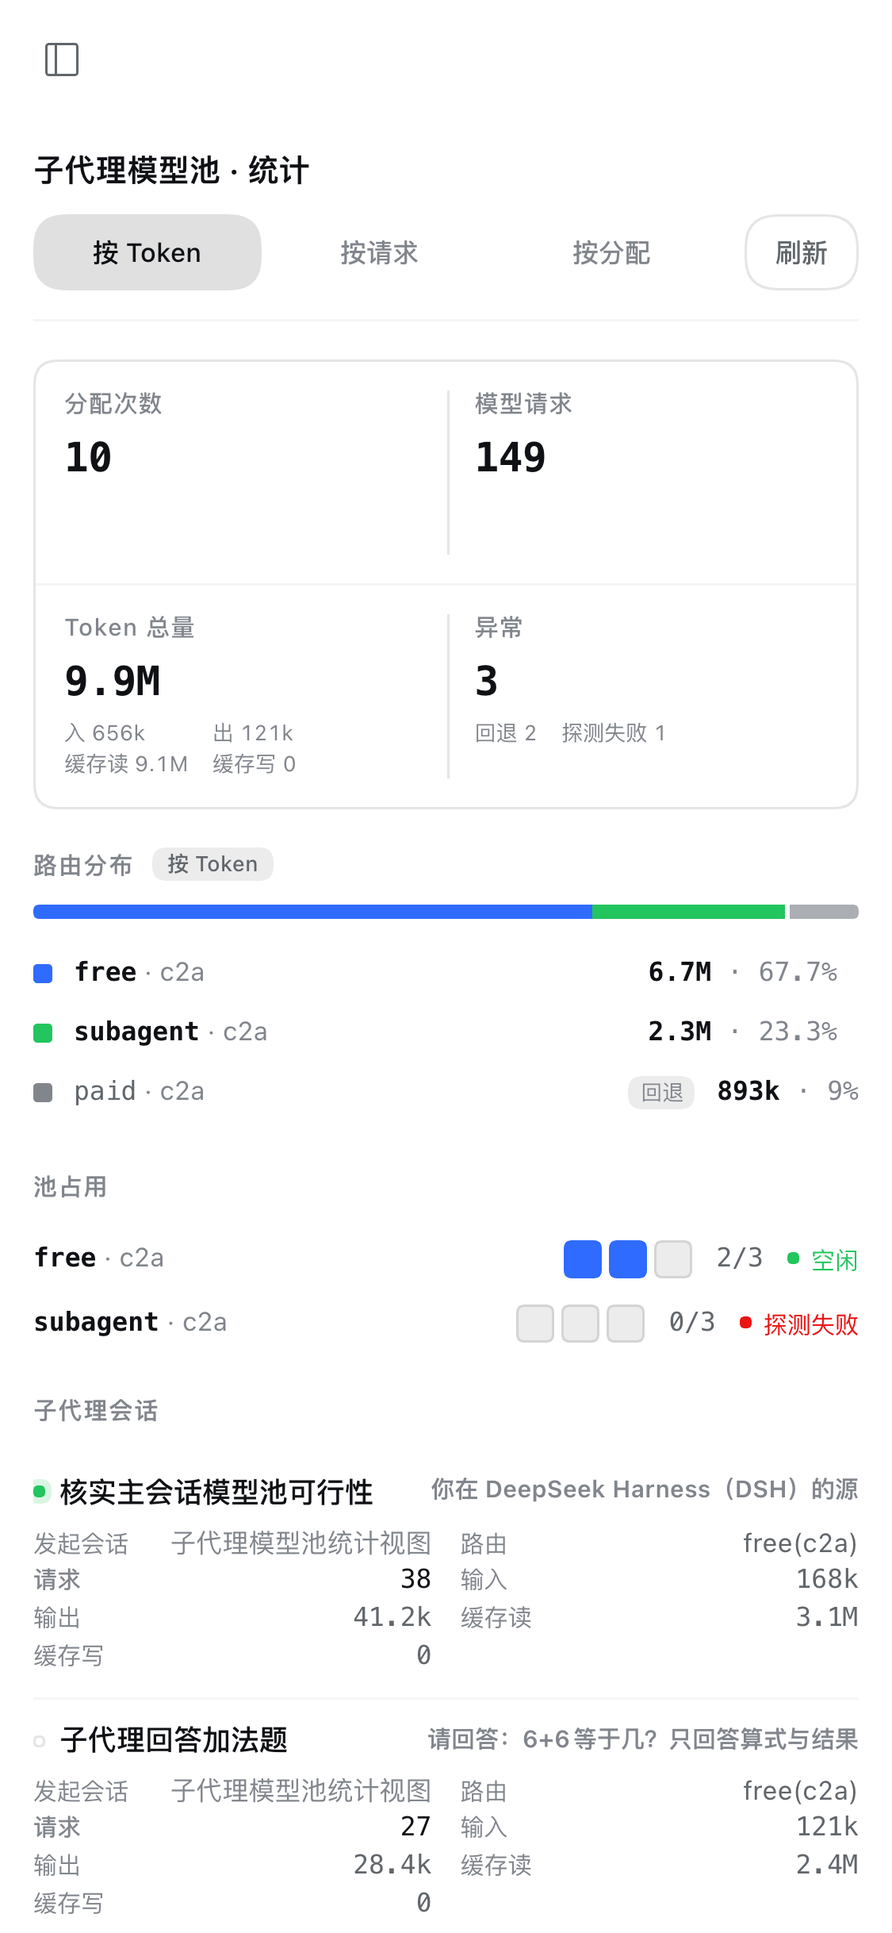
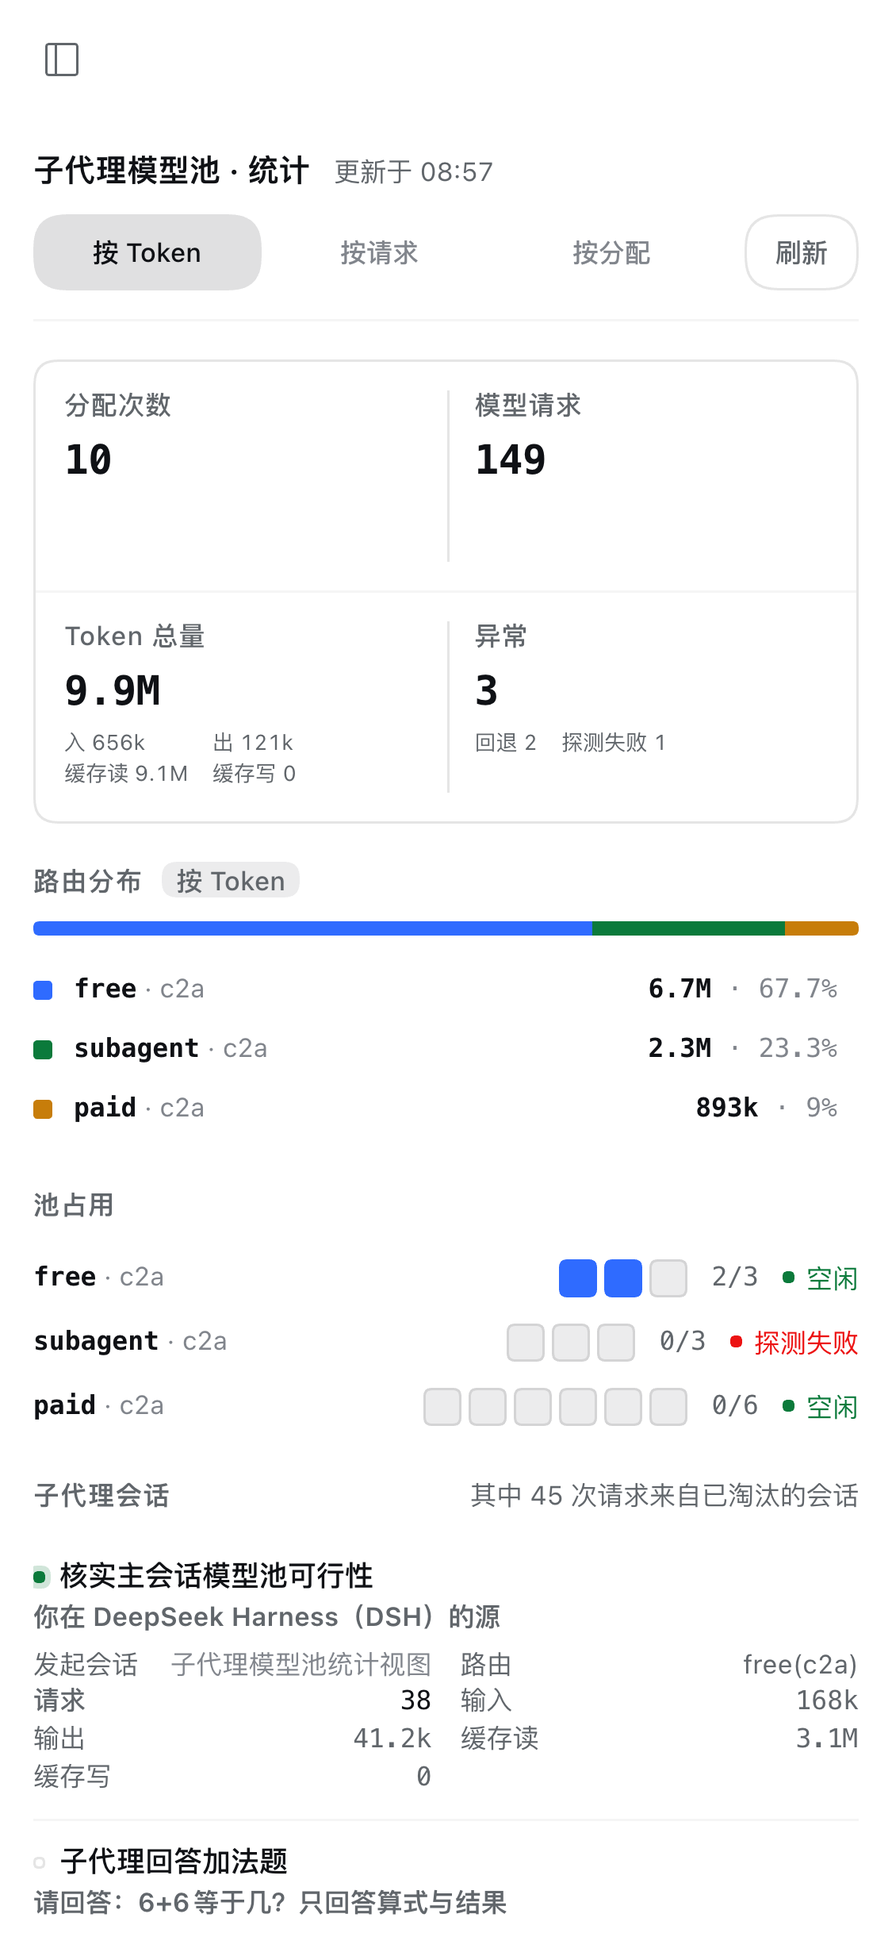
fix: 按审查结论修可访问性与信息完整性，字号下限提到 11px
两个独立评审（设计评审 + 检测器/像素证据）都指到同一批问题，按
「缺陷」处理，不涉及设计取舍。

对比度（A、B 两路独立同结论）
- 三级文字 #81858c 在浅色白底只有 3.71:1（AA 要 4.5），而同一批文字
  在深色 8.54:1 完全达标——label-tertiary 两端亮度差 4.8 倍，我一直
  只验深色。全部换 label-secondary：浅色 #61666b = 5.80:1，深色
  #cfd3d6 = 9.90:1，两端都过。
- 状态绿：DSH 的 --dsw-alias-state-success-primary 在**两套主题里都是**
  #22c55e，浅色白底 2.28:1，连非文本 3:1 都不到（DSH 自己的红绿不对称：
  红浅色用 red-600、深色换 red-400 自动补偿，绿没有）。别名有值，
  所以 fallback 改色无效。改为按主题标记分两套：浅色 #0b7a3b = 5.44:1，
  深色沿用 #22c55e = 8.00:1。实测 --smpv-ok 浅色 #0b7a3b / 深色 #22c55e。

字号下限 11px（检测器 13 条 warning）
- 眉题、卡标签、卡副文、模式胶囊、回退胶囊、状态文案、会话副标题、
  表头、移动端 data-label 全部 9-10px → 11px。实测 8 个选择器 computed
  fontSize 全为 11px。

手机端标题被排成一行（A、B 独立同结论）
- td:first-child 是 display:flex，内部两个块级子元素（标题 + 副标题）
  被排成左右两项，副标题右对齐顶到边界、可用宽度 179px 而自身 179px，
  零余量。改 flex-direction:column。实测 stacked=true，标题 bottom=670、
  副标题 top=671。

信息完整性（A：只给结论不给路径）
- 加「更新于 HH:MM」时间锚点。账本是进程序内存累计，不标时间分不清
  刚拉的还是十分钟前的。
- 加 30 秒自动刷新（面板卸载时清掉，不在后台空转）。
- 加「其中 N 次请求来自已淘汰的会话」：账本上限 200 条，淘汰后明细没了
  但 totals 只增不减，149 vs 104 的差额不说明会被当成表格漏行。
  抽成 unattributedRequests() 纯函数便于测试。

可访问性
- <table> 补 role="table"：移动端 display:block 后 Safari/VoiceOver 和
  Firefox 会丢掉隐式表格角色。

实测：5 个数值列与表头右边缘对齐 maxDiff 全 0；更新于 08:57；
未归属 45 次（149-104）；桌面 812px 填满不滚动；手机可滚动。
测试 137 项全绿（新增 3 项未归属计算）。

diff --git a/client.js b/client.js
@@ -746,7 +746,7 @@
       /** 路由配色：t0 蓝 / t1 绿 / t2 橙 / t3 紫（与 DSH 内置统计表同族）。 */
       var TONE_COLORS = {
         t0: "var(--dsw-alias-accent,#2f6bff)",
-        t1: "var(--dsw-alias-state-success-primary,#1a8a4a)",
+        t1: "var(--smpv-ok)",
         t2: "var(--dsw-alias-state-warning-primary,#c77d0a)",
         t3: "#8a63d2",
         // 回退路由（池无候选，子代理退回父路由）：灰色，与池内区分。
@@ -764,10 +764,16 @@
                 // 三级色阶：用 label-primary 按比例混透明，两个主题自动成立
         // （label-primary 在浅色主题是近黑、深色主题是近白，混出来分别是叠深与叠亮）。
         // interactive-bg-hover 只有 6% 强度，叠在近白的页面底上只差 7/255，等于没画。
-        ".smpv-page{display:flex;flex-direction:column;flex:1 1 auto;min-width:0;min-height:0;overflow-y:auto;overscroll-behavior-y:contain;-webkit-overflow-scrolling:touch;padding:18px 24px 24px;--smpv-tint-1:color-mix(in srgb,var(--dsw-alias-label-primary) 4%,transparent);--smpv-tint-2:color-mix(in srgb,var(--dsw-alias-label-primary) 8%,transparent);--smpv-tint-3:color-mix(in srgb,var(--dsw-alias-label-primary) 13%,transparent)}",
+        ".smpv-page{display:flex;flex-direction:column;flex:1 1 auto;min-width:0;min-height:0;overflow-y:auto;overscroll-behavior-y:contain;-webkit-overflow-scrolling:touch;padding:18px 24px 24px;--smpv-tint-1:color-mix(in srgb,var(--dsw-alias-label-primary) 4%,transparent);--smpv-tint-2:color-mix(in srgb,var(--dsw-alias-label-primary) 8%,transparent);--smpv-tint-3:color-mix(in srgb,var(--dsw-alias-label-primary) 13%,transparent);--smpv-ok:#0b7a3b}",
+        // 成功色：DSH 的 --dsw-alias-state-success-primary 在**两套主题里都是**
+        // #22c55e，浅色白底只有 2.28:1——AA 要求 4.5，连非文本 3 都不到。
+        // 改用主题标记分两套：浅色压深到 5.44:1，深色沿用 DSH 原值（8.00:1）。
+        "body[data-ds-dark-theme] .smpv-page{--smpv-ok:#22c55e}",
         // 标题区：标题压在左、控件压在右，底部一条极淡分隔线收口。
         ".smpv-head{display:flex;align-items:center;justify-content:space-between;gap:16px;padding-bottom:14px;border-bottom:.5px solid var(--dsw-alias-border-l1)}",
         ".smpv-title{margin:0;font-size:13px;line-height:18px;font-weight:600;letter-spacing:.01em;color:var(--dsw-alias-label-primary)}",
+        ".smpv-headLine{display:flex;align-items:baseline;gap:10px;min-width:0}",
+        ".smpv-updated{font-size:11px;line-height:15px;color:var(--dsw-alias-label-secondary);font-variant-numeric:tabular-nums;white-space:nowrap}",
         ".smpv-actions{display:flex;align-items:center;gap:10px;margin-left:auto}",
 
         // ===== 分段控件 =====
@@ -814,12 +820,12 @@
         ".smpv-card{padding:12px 16px;min-width:0;position:relative}",
         // 竖分隔线：用伪元素画，不影响 grid 列宽。
         ".smpv-card+.smpv-card:before{content:'';position:absolute;left:0;top:12px;bottom:12px;border-left:.5px solid var(--dsw-alias-border-l2)}",
-        ".smpv-cardK{color:var(--dsw-alias-label-tertiary);font-size:10px;line-height:14px;font-weight:500;letter-spacing:.04em;margin-bottom:5px}",
+        ".smpv-cardK{color:var(--dsw-alias-label-secondary);font-size:11px;line-height:15px;font-weight:500;letter-spacing:.03em;margin-bottom:5px}",
         // 主数字 22px：仪表盘的重点必须一眼看到，15px 撑不起来。
         ".smpv-cardV{font-family:var(--dsw-font-mono,ui-monospace,Menlo,monospace);font-variant-numeric:tabular-nums;font-size:22px;line-height:26px;font-weight:600;letter-spacing:-.01em;color:var(--dsw-alias-label-primary)}",
         // 副文本把细项并进同一格，避免拆成一堆等权重的小卡。
         // 副文本固定两行高：Token 格四项、异常格两项，高度不一致会让指标条底部参差。
-        ".smpv-cardSub{margin-top:4px;min-height:28px;color:var(--dsw-alias-label-tertiary);font-size:10px;line-height:14px}",
+        ".smpv-cardSub{margin-top:4px;min-height:30px;color:var(--dsw-alias-label-secondary);font-size:11px;line-height:15px}",
         // 两列微网格：四项排成 2×2，比一行塞四项换行更整齐。
         ".smpv-buckets{display:grid;grid-template-columns:auto auto;gap:0 10px;justify-content:start}",
         ".smpv-buckets>span{white-space:nowrap;font-variant-numeric:tabular-nums}",
@@ -829,8 +835,11 @@
         ".smpv-grid{display:grid;grid-template-columns:minmax(0,1fr) minmax(0,1fr);gap:28px;margin-bottom:20px}",
         ".smpv-panel{min-width:0;animation:smpv-fade .18s ease-out}",
         // 眉题：小、淡、带字距——典型的仪表盘分区标题。
-        ".smpv-panelTitle{font-size:10px;line-height:14px;font-weight:600;letter-spacing:.06em;color:var(--dsw-alias-label-tertiary);margin:0 0 10px;display:flex;align-items:center;gap:8px}",
-        ".smpv-modeTag{font-weight:500;font-size:9px;line-height:14px;letter-spacing:0;padding:0 6px;border-radius:999px;color:var(--dsw-alias-label-secondary);background:var(--smpv-tint-2)}",
+        ".smpv-panelHead{display:flex;align-items:baseline;justify-content:space-between;gap:12px;margin:0 0 10px}",
+        ".smpv-panelHead .smpv-panelTitle{margin:0}",
+        ".smpv-attribution{font-size:11px;line-height:15px;color:var(--dsw-alias-label-secondary);white-space:nowrap}",
+        ".smpv-panelTitle{font-size:11px;line-height:15px;font-weight:600;letter-spacing:.05em;color:var(--dsw-alias-label-secondary);margin:0 0 10px;display:flex;align-items:center;gap:8px}",
+        ".smpv-modeTag{font-weight:500;font-size:11px;line-height:15px;letter-spacing:0;padding:0 6px;border-radius:999px;color:var(--dsw-alias-label-secondary);background:var(--smpv-tint-2)}",
 
         // ===== 路由分布 =====
         ".smpv-stack{margin:0 0 10px}",
@@ -848,7 +857,7 @@
         ".smpv-routeNums b{color:var(--dsw-alias-label-primary);font-weight:600}",
         ".smpv-route.fallback .smpv-routeLabel b{font-weight:500;color:var(--dsw-alias-label-secondary)}",
         // 回退标签：小字 pill，和眉题同族。
-        ".smpv-fbTag{font-size:9px;line-height:14px;padding:0 5px;border-radius:999px;color:var(--dsw-alias-label-tertiary);background:var(--smpv-tint-2);flex:none}",
+        ".smpv-fbTag{font-size:11px;line-height:15px;padding:0 5px;border-radius:999px;color:var(--dsw-alias-label-secondary);background:var(--smpv-tint-2);flex:none}",
 
         // ===== 池占用 =====
         ".smpv-slotRow{display:grid;grid-template-columns:minmax(0,1fr) auto auto auto;gap:10px;align-items:center;padding:5px 0}",
@@ -860,9 +869,9 @@
         ".smpv-slot.hot{background:var(--dsw-alias-state-warning-primary,#c77d0a)}",
         ".smpv-slot.down{background:var(--dsw-alias-state-error-primary,#d5393a)}",
         // 状态：小圆点 + 文字，比纯色文字更克制。
-        ".smpv-state{display:inline-flex;align-items:center;gap:5px;font-size:10px;line-height:14px;color:var(--dsw-alias-label-tertiary);white-space:nowrap}",
+        ".smpv-state{display:inline-flex;align-items:center;gap:5px;font-size:11px;line-height:15px;color:var(--dsw-alias-label-secondary);white-space:nowrap}",
         ".smpv-state:before{content:'';width:5px;height:5px;border-radius:50%;background:currentColor;flex:none}",
-        ".smpv-state.ok{color:var(--dsw-alias-state-success-primary,#1a8a4a)}",
+        ".smpv-state.ok{color:var(--smpv-ok)}",
         ".smpv-state.hot{color:var(--dsw-alias-state-warning-primary,#c77d0a)}",
         ".smpv-state.down{color:var(--dsw-alias-state-error-primary,#d5393a)}",
         ".smpv-slotNum{font-family:var(--dsw-font-mono,ui-monospace,Menlo,monospace);font-variant-numeric:tabular-nums;font-size:11px;line-height:16px;color:var(--dsw-alias-label-secondary);white-space:nowrap}",
@@ -872,7 +881,7 @@
         ".smpv-sessions{display:flex;flex-direction:column;flex:1 1 auto;min-height:180px}",
         ".smpv-tableWrap{flex:1 1 auto;min-height:0;overflow-y:auto;overscroll-behavior-y:contain}",
         ".smpv-table{width:100%;border-collapse:collapse;table-layout:fixed;font-variant-numeric:tabular-nums}",
-        ".smpv-table thead th{position:sticky;top:0;z-index:1;background:var(--dsw-alias-bg-base,#fff);color:var(--dsw-alias-label-tertiary);font-weight:500;font-size:10px;line-height:14px;letter-spacing:.04em;text-align:left;padding:0 10px 6px;border-bottom:.5px solid var(--dsw-alias-border-l1);white-space:nowrap}",
+        ".smpv-table thead th{position:sticky;top:0;z-index:1;background:var(--dsw-alias-bg-base,#fff);color:var(--dsw-alias-label-secondary);font-weight:500;font-size:11px;line-height:15px;letter-spacing:.03em;text-align:left;padding:0 10px 6px;border-bottom:.5px solid var(--dsw-alias-border-l1);white-space:nowrap}",
         ".smpv-table thead th.smpv-num{text-align:right}",
         ".smpv-table tbody td{border-bottom:.5px solid var(--dsw-alias-border-l1);padding:7px 10px;font-size:11px;line-height:16px;white-space:nowrap;overflow:hidden;text-overflow:ellipsis;vertical-align:middle}",
         ".smpv-table tbody tr:last-child td{border-bottom:0}",
@@ -884,11 +893,11 @@
         // 这样不占列宽——8 列已经很挤了。
         ".smpv-run{display:inline-flex;align-items:center;gap:6px;min-width:0;max-width:100%}",
         ".smpv-run:before{content:'';width:5px;height:5px;border-radius:50%;flex:none;box-sizing:border-box}",
-        ".smpv-run.running:before{background:var(--dsw-alias-state-success-primary,#1a8a4a);box-shadow:0 0 0 2px color-mix(in srgb, var(--dsw-alias-state-success-primary,#1a8a4a) 22%, transparent)}",
+        ".smpv-run.running:before{background:var(--smpv-ok);box-shadow:0 0 0 2px color-mix(in srgb, var(--smpv-ok) 22%, transparent)}",
         ".smpv-run.done:before{border:.5px solid var(--dsw-alias-border-l2);background:transparent}",
         "@media (prefers-reduced-motion:no-preference){.smpv-run.running:before{animation:smpv-halo 2.4s ease-in-out infinite}}",
-        "@keyframes smpv-halo{0%,100%{box-shadow:0 0 0 2px color-mix(in srgb, var(--dsw-alias-state-success-primary,#1a8a4a) 22%, transparent)}50%{box-shadow:0 0 0 3.5px color-mix(in srgb, var(--dsw-alias-state-success-primary,#1a8a4a) 10%, transparent)}}",
-        ".smpv-sessionSub{display:block;overflow:hidden;text-overflow:ellipsis;white-space:nowrap;font-size:10px;line-height:14px;color:var(--dsw-alias-label-tertiary)}",
+        "@keyframes smpv-halo{0%,100%{box-shadow:0 0 0 2px color-mix(in srgb, var(--smpv-ok) 22%, transparent)}50%{box-shadow:0 0 0 3.5px color-mix(in srgb, var(--smpv-ok) 10%, transparent)}}",
+        ".smpv-sessionSub{display:block;overflow:hidden;text-overflow:ellipsis;white-space:nowrap;font-size:11px;line-height:15px;color:var(--dsw-alias-label-secondary)}",
         ".smpv-num{font-family:var(--dsw-font-mono,ui-monospace,Menlo,monospace);text-align:right;font-size:11px;color:var(--dsw-alias-label-secondary);transition:opacity .14s ease-out}",
         // 请求数是这行最有信息量的数字，给它主字色。
         ".smpv-numLead{color:var(--dsw-alias-label-primary);font-weight:500}",
@@ -921,8 +930,8 @@
         ".smpv-table tbody tr{border-bottom:.5px solid var(--dsw-alias-border-l1);padding:9px 0}",
         ".smpv-table tbody tr:last-child{border-bottom:0}",
         ".smpv-table tbody td{border:0;padding:0;display:flex;align-items:baseline;justify-content:space-between;gap:10px}",
-        ".smpv-table tbody td::before{content:attr(data-label);color:var(--dsw-alias-label-tertiary);font-size:10px;line-height:16px;flex:none}",
-        ".smpv-table tbody td:first-child{font-weight:600;padding-bottom:5px;font-size:12px}",
+        ".smpv-table tbody td::before{content:attr(data-label);color:var(--dsw-alias-label-secondary);font-size:11px;line-height:16px;flex:none}",
+        ".smpv-table tbody td:first-child{font-weight:600;padding-bottom:5px;font-size:12px;flex-direction:column;align-items:flex-start;gap:1px}",
         ".smpv-table tbody td:first-child::before{content:none}",
         ".smpv-table tbody td:first-child .smpv-sessionTitle{white-space:normal;overflow-wrap:anywhere}",
         // 数值字段两列排布。
@@ -1052,6 +1061,24 @@
        * 账本只记子代理会话（主代理走自己的路由，不归池管），所以这里
        * 全是子代理，没有父子层级可分——平铺即可。
        */
+      /**
+       * 明细里没覆盖到的请求数。
+       *
+       * 账本上限 200 条会话，淘汰后的会话不再出现在明细里，但 `totals` 是
+       * 进程内累计、只增不减——两者必然对不上。把这个差值显式说出来，
+       * 读者才不会以为表格漏了行。
+       * @param {object} totals - 快照里的累计值。
+       * @param {Array<object>} sessions - 快照里的会话明细。
+       * @returns {number} 未归属的请求数（不为负）。
+       */
+      function unattributedRequests(totals, sessions) {
+        var total = (totals === null || totals === undefined ? 0 : totals.requests) || 0;
+        var listed = (sessions === null || sessions === undefined ? [] : sessions).reduce(function (sum, s) {
+          return sum + ((s === null || s === undefined ? 0 : s.requests) || 0);
+        }, 0);
+        return Math.max(0, total - listed);
+      }
+
       function groupSessions(sessions) {
         // 按发起会话聚合排序：同一主会话派出的子代理排在一起，
         // 扫一眼就知道哪个主会话最费、派了多少。
@@ -1274,13 +1301,30 @@
         return jsx("div", {
           className: "smpv-panel smpv-sessions",
           children: [
-            jsx("h3", { className: "smpv-panelTitle", children: "子代理会话" }),
+            jsx("div", {
+              className: "smpv-panelHead",
+              children: [
+                jsx("h3", { className: "smpv-panelTitle", children: "子代理会话" }),
+                // 明细只有最近 200 条会话，但 totals 是进程内累计——两者必然
+                // 对不上。不说明的话读者会以为表格漏了数据。
+                props.unattributed > 0
+                  ? jsx("span", {
+                    className: "smpv-attribution",
+                    title: "累计值包含已被淘汰的会话（账本上限 200 条），表格只列还留着的",
+                    children: "其中 " + props.unattributed + " 次请求来自已淘汰的会话"
+                  })
+                  : null
+              ]
+            }),
             rows.length === 0
               ? jsx("div", { className: "smpv-empty", children: "还没有观测到模型请求。" })
               : jsx("div", {
                 className: "smpv-tableWrap",
                 children: jsx("table", {
                   className: "smpv-table",
+                  // 移动端用 display:block 把表格改成卡片列表，Safari/VoiceOver
+                  // 和 Firefox 会因此丢掉隐式 table 角色；显式声明保住语义。
+                  role: "table",
                   children: [
                   jsx("thead", {
                     children: jsx("tr", {
@@ -1394,7 +1438,22 @@
             jsx("div", {
               className: "smpv-head",
               children: [
-                jsx("h1", { className: "smpv-title", children: "子代理模型池 · 统计" }),
+                jsx("div", {
+                  className: "smpv-headLine",
+                  children: [
+                    jsx("h1", { className: "smpv-title", children: "子代理模型池 · 统计" }),
+                    // 时间锚点：账本是进程序内存累计，不标时间就分不清
+                    // 「刚拉的」和「十分钟前的」。
+                    jsx("span", {
+                      className: "smpv-updated",
+                      children: state.updatedAt === null || state.updatedAt === undefined
+                        ? "尚未取到数据"
+                        : "更新于 " + new Date(state.updatedAt).toLocaleTimeString("zh-CN", {
+                          hour: "2-digit", minute: "2-digit", hour12: false,
+                        })
+                    })
+                  ]
+                }),
                 jsx("div", {
                   className: "smpv-actions",
                   children: [
@@ -1489,7 +1548,12 @@
                     jsx(SlotPanel, { routes: snapshot === null ? [] : snapshot.routes })
                   ]
                 }),
-                jsx(SessionTable, { sessions: snapshot === null ? [] : snapshot.sessions })
+                jsx(SessionTable, {
+                  sessions: snapshot === null ? [] : snapshot.sessions,
+                  // 明细请求数之和 vs 累计请求数：差值就是被 200 条上限
+                  // 淘汰掉的会话贡献的。
+                  unattributed: snapshot === null ? 0 : unattributedRequests(snapshot.totals, snapshot.sessions)
+                })
               ]
             })
           ]
@@ -1512,6 +1576,9 @@
         var controller = null;
         // 数据版本号：每次新快照到达递增。渲染层用它当 key，让整块淡入。
         var version = 0;
+        // 最后一次拿到数据的时间。页面必须写明数据有多旧——累计值是进程序
+        // 内存，不标时间的话看到的分不清是刚拉的还是十分钟前的。
+        var updatedAt = null;
         var notify = function () {
           listeners.forEach(function (listener) { listener(); });
         };
@@ -1528,6 +1595,7 @@
               error = "读取统计失败：宿主接口不可用。";
             } else {
               snapshot = value;
+              updatedAt = Date.now();
               version += 1;
             }
             notify();
@@ -1535,7 +1603,10 @@
         };
         return {
           getSnapshot: function () {
-            return { snapshot: snapshot, error: error, loading: loading, version: version };
+            return {
+              snapshot: snapshot, error: error, loading: loading,
+              version: version, updatedAt: updatedAt
+            };
           },
           subscribe: function (listener) {
             listeners.push(listener);
@@ -1570,12 +1641,19 @@
           useEffect(function () {
             source.load();
           }, []);
+          // 30 秒自动刷新：这个页面是盯「现在谁在跑」，不是看历史报表。
+          // 面板卸载时清掉，不在后台空转。
+          useEffect(function () {
+            var timer = setInterval(function () { source.load(); }, 30000);
+            return function () { clearInterval(timer); };
+          }, []);
           var modeState = useState("tokens");
           return {
             snapshot: state[0].snapshot,
             error: state[0].error,
             loading: state[0].loading,
             version: state[0].version,
+            updatedAt: state[0].updatedAt,
             mode: modeState[0],
             setMode: modeState[1],
             reload: function () { source.load(); }
@@ -1632,6 +1710,7 @@
         poolKey: poolKey,
         measureOf: measureOf,
         rankRoutes: rankRoutes,
+        unattributedRequests: unattributedRequests,
         slotStates: slotStates,
         routeHealth: routeHealth,
         formatCount: formatCount,

diff --git a/tests/stats-client.test.js b/tests/stats-client.test.js
@@ -162,6 +162,26 @@ test("同发起会话的子代理排在一起", () => {
   assert.deepEqual(rows.map((r) => r.session.sessionId), ["b", "d", "a", "c"]);
 });
 
+test("未归属请求数 = 累计 - 明细之和", () => {
+  const { unattributedRequests } = loadTestExports();
+  const totals = { requests: 149 };
+  const sessions = [{ requests: 38 }, { requests: 27 }, { requests: 19 }, { requests: 12 }, { requests: 8 }];
+  // 149 - 104 = 45：被 200 条上限淘汰的会话贡献的
+  assert.equal(unattributedRequests(totals, sessions), 45);
+});
+
+test("明细超过累计时未归属钳到 0", () => {
+  const { unattributedRequests } = loadTestExports();
+  assert.equal(unattributedRequests({ requests: 10 }, [{ requests: 12 }]), 0);
+});
+
+test("空明细/空累计都不炸", () => {
+  const { unattributedRequests } = loadTestExports();
+  assert.equal(unattributedRequests({ requests: 0 }, []), 0);
+  assert.equal(unattributedRequests(null, null), 0);
+  assert.equal(unattributedRequests({ requests: 5 }, undefined), 5);
+});
+
 test("空列表返回空数组", () => {
   const { groupSessions } = loadTestExports();
   assert.deepEqual(groupSessions([]), []);
